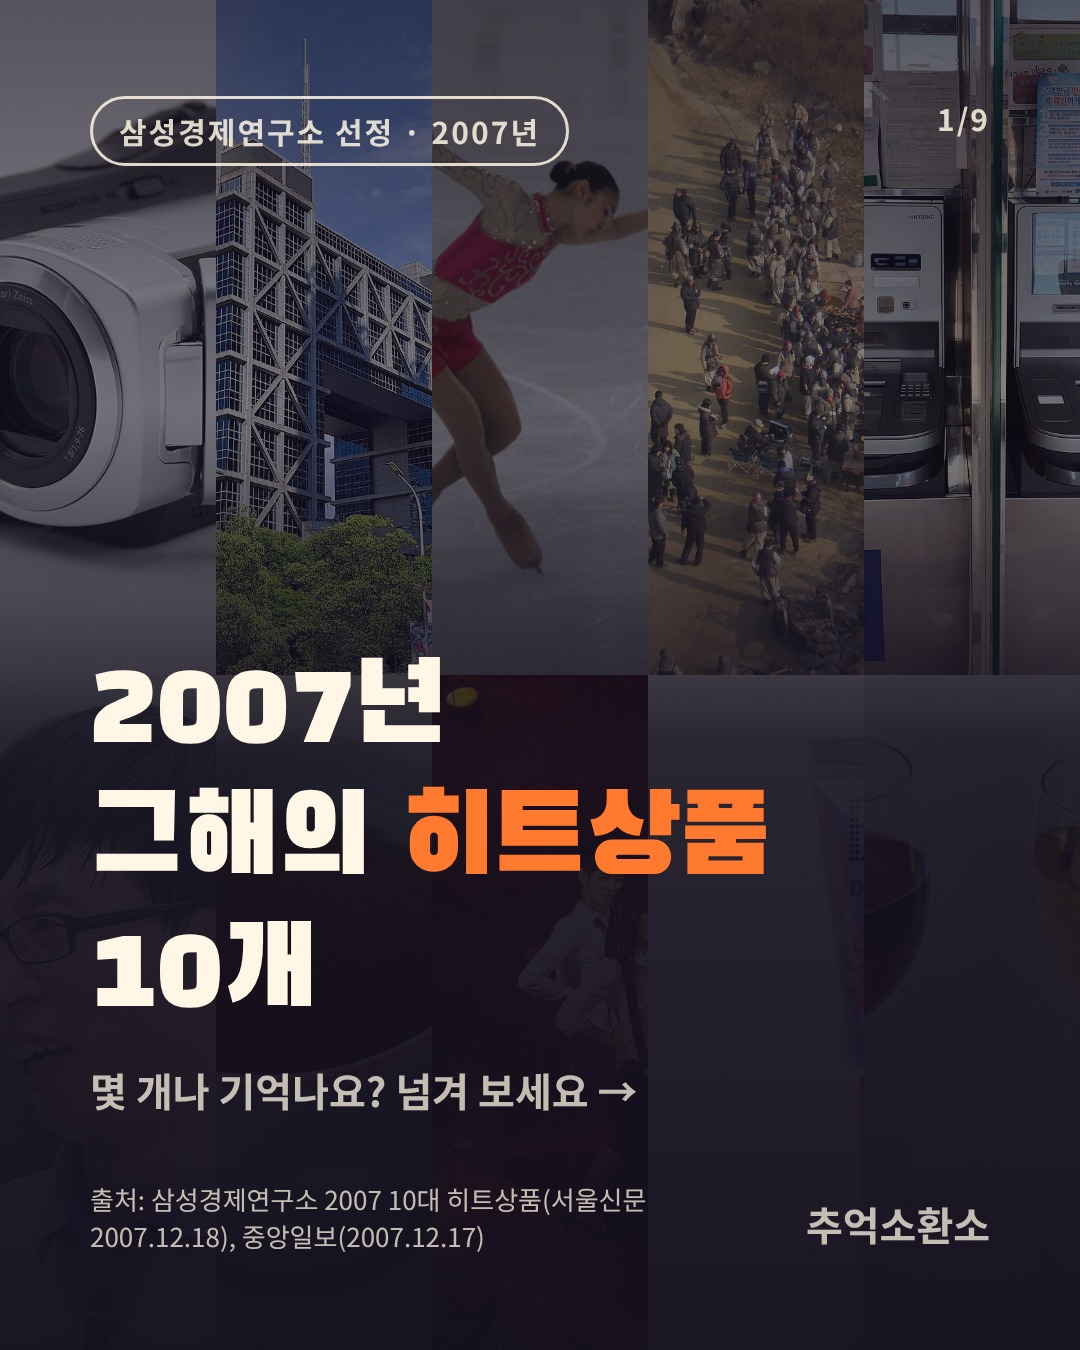
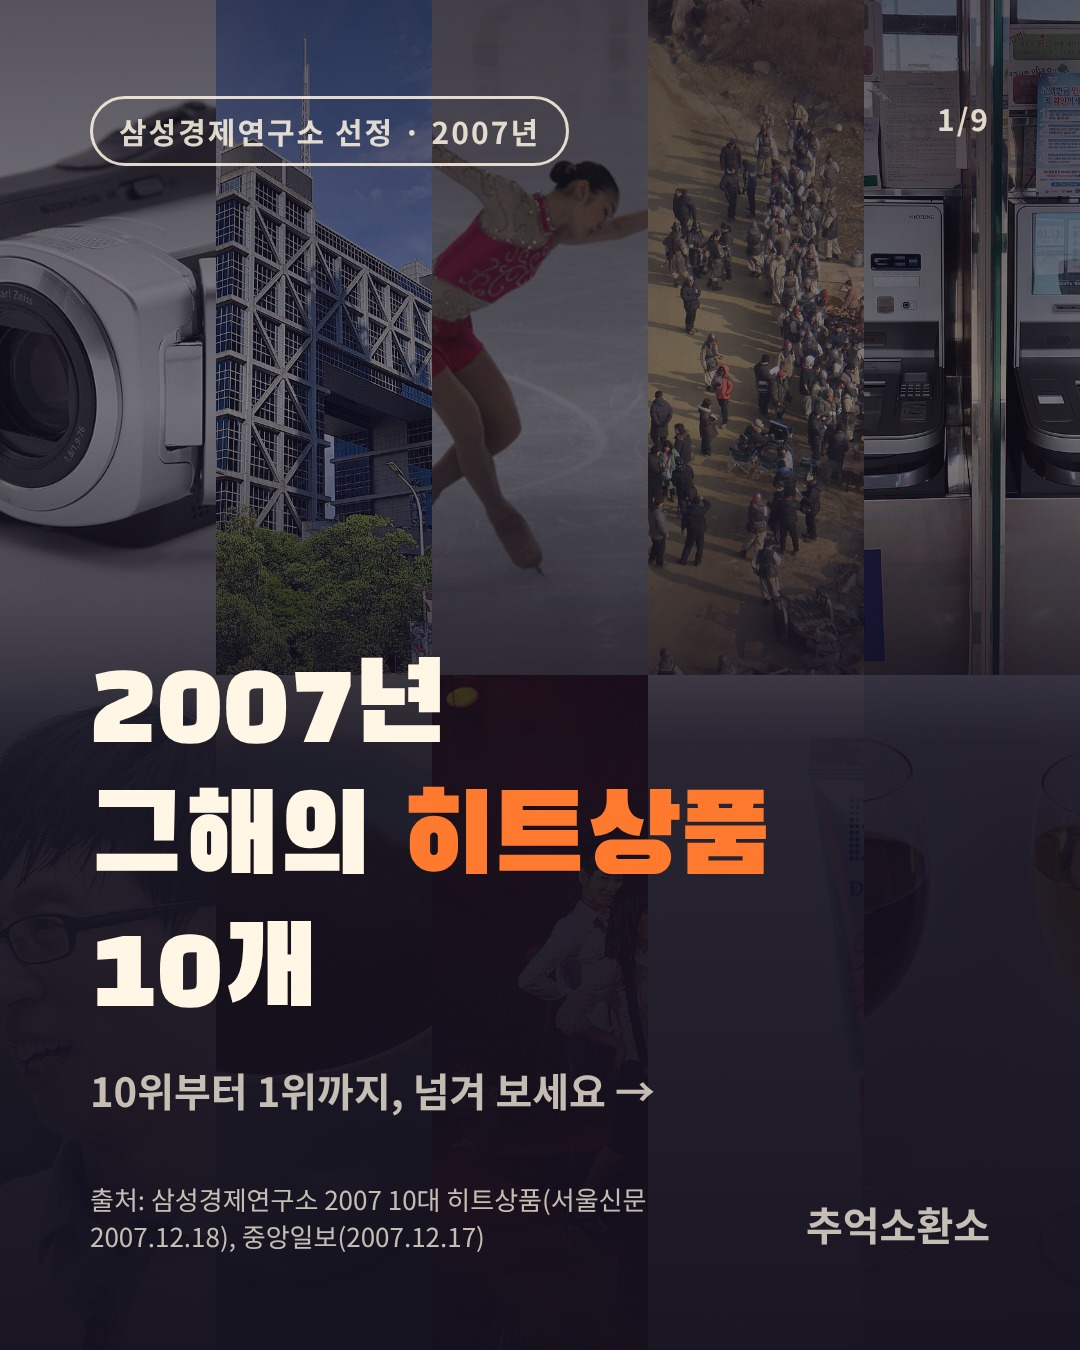
순위형 게시물 역순(1위를 마지막에) 적용: 11/27, 11/29
Claude-Session: https://claude.ai/code/session_01V7Tno7kVZwxNiPsBnWu4Y5

Changed region(s): [[0.0917, 0.7778, 0.5806, 0.84]]

diff --git a/CHANGELOG.md b/CHANGELOG.md
@@ -12,3 +12,4 @@
 - 11/27 빈자리: 2004 히트상품은 출처 2곳 확인이 안 돼 2007 히트상품으로 교체(대표 승인). 왜: 주제 3관문 ③(출처 2곳) 미충족.
 - 카드 폰트를 Google Fonts에서 직접 불러오도록 변경. 왜: 로컬 폰트 파일이 사라져 매번 재다운로드가 필요했음.
 - 운영 방식: 대표 결정으로 주간 승인 절차 폐지(대표가 다시 말할 때까지). Claude가 자체 검수 후 바로 예약 등록. 대표 보고는 반응 높은 댓글 브리핑만.
+- 순위형 게시물을 10위→1위 역순(카운트다운)으로 변경, 1위는 마지막 장에서 공개. 왜: 대표 제안, 끝까지 넘겨 보게 만들어 체류·저장 반응을 높이려고. 11/27·11/29 게시물부터 적용.
